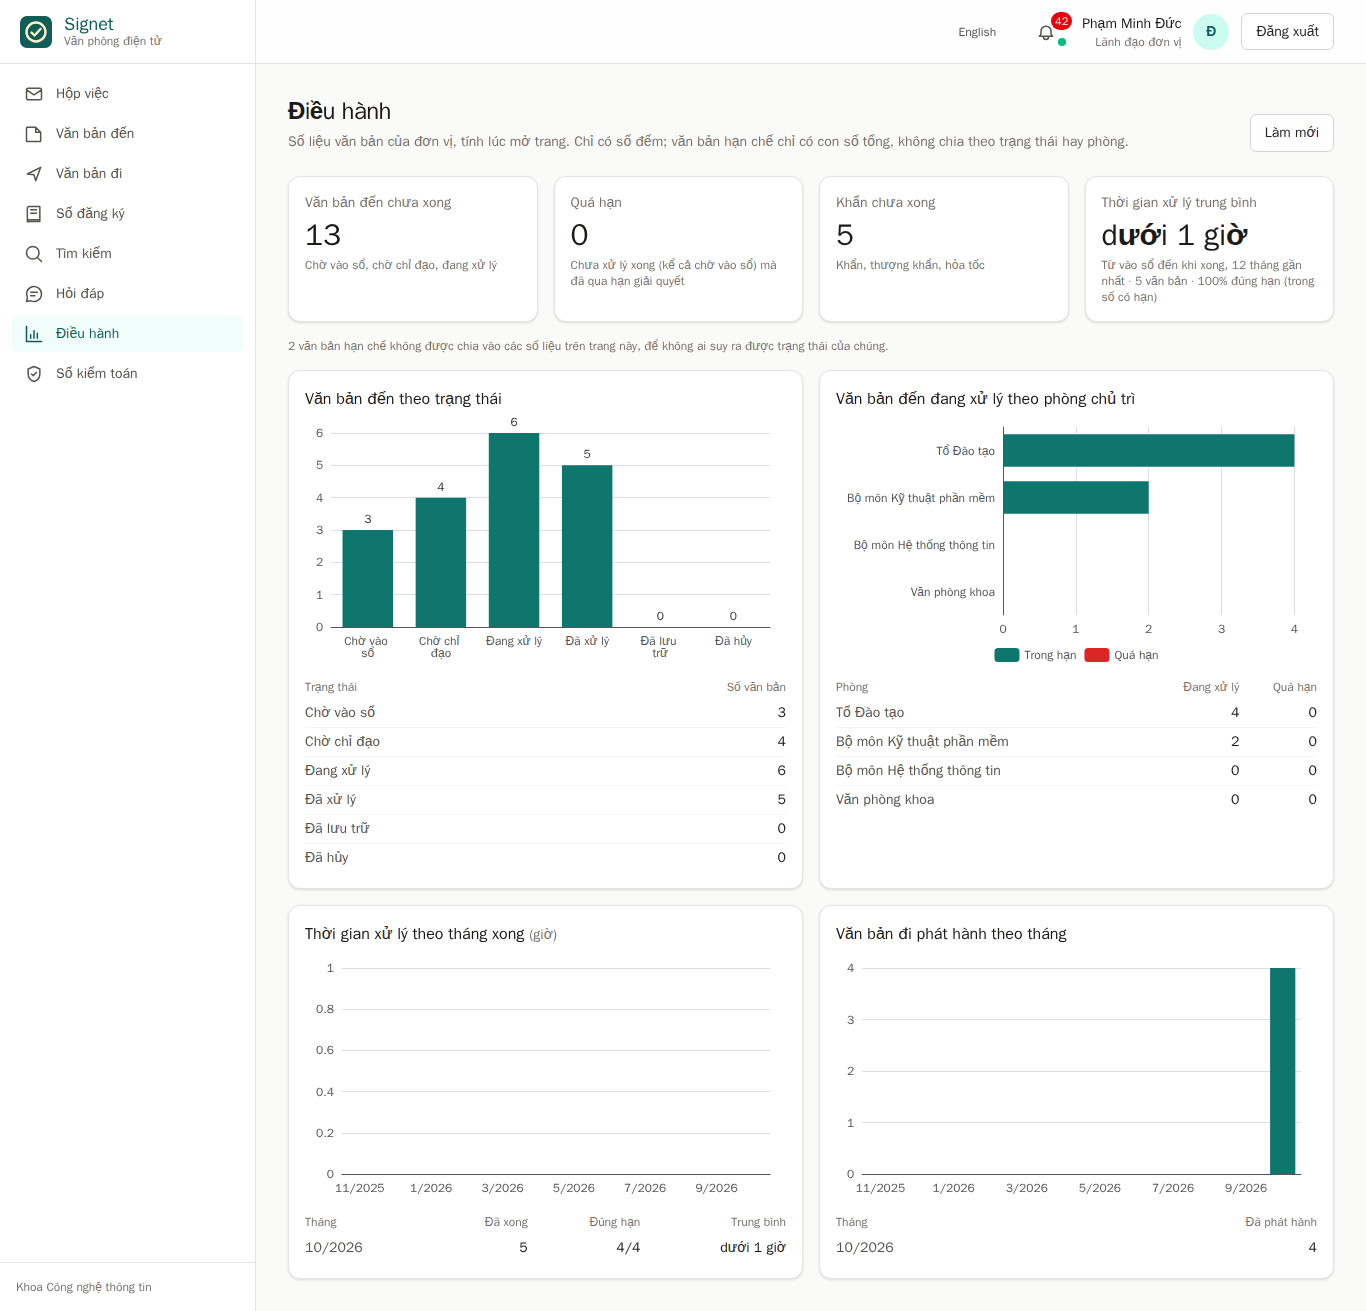
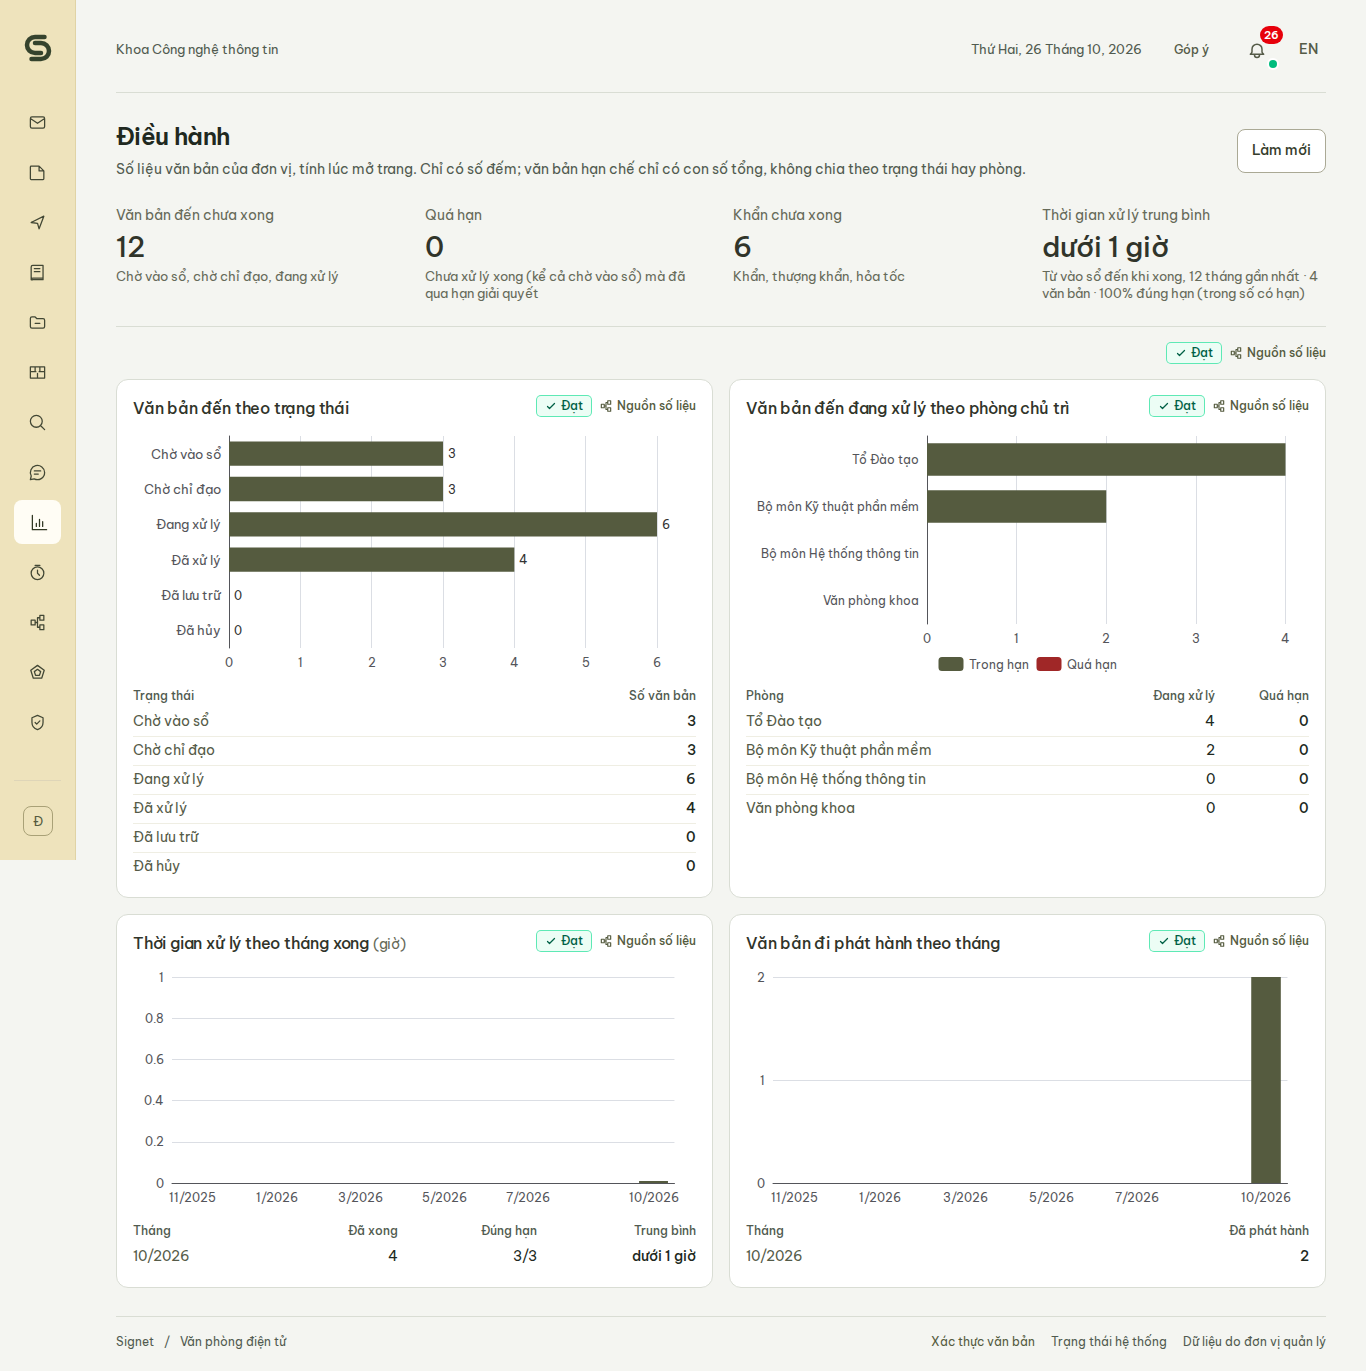
docs: show the Lien mach interface in the README screenshots (#220)
The three interface screenshots in both READMEs showed the old interface. They are replaced with e2e screenshots of
the Liền mạch interface from this PR's CI (artifact e2e-anh-1 of run 40225716743), keeping the file names. The e2e
job now uploads its screenshots as the artifact e2e-anh-<attempt> on every run that is not cancelled, green ones
included. shot() captures with animations and transitions turned off, because a full-page capture briefly flips the
narrow-screen media query and left the sidebar half open. The dashboard test waits for realtime toasts to clear
before its screenshot.

Closes #218

diff --git a/tests/e2e/helpers.ts b/tests/e2e/helpers.ts
@@ -104,6 +104,11 @@ export async function signIn(browser: Browser, username: string, { otp = false }
   return page
 }
 
+// Trong lúc chụp toàn trang, Chrome đổi cỡ khung nhìn tạm thời: media query màn hẹp (max-width: 900px), (hover: none)
+// báo đổi rồi đổi lại, thanh bên nhảy sang độ rộng 256px của ngăn kéo rồi chạy chuyển động thu về 76px, nên ảnh có
+// thanh bên mở dở đè lên nội dung (#218). Chụp với chuyển động tắt
+const STILL = '*, *::before, *::after { transition-duration: 0s !important; transition-delay: 0s !important; }'
+
 export async function shot(page: Page, name: string) {
-  await page.screenshot({ path: `${SHOTS}/${name}.png`, fullPage: true })
+  await page.screenshot({ path: `${SHOTS}/${name}.png`, fullPage: true, animations: 'disabled', style: STILL })
 }

diff --git a/tests/e2e/dieu-hanh.spec.ts b/tests/e2e/dieu-hanh.spec.ts
@@ -39,6 +39,9 @@ test('dashboard điều hành: chỉ lãnh đạo đơn vị xem, số liệu kh
   // mỗi phòng của đơn vị một dòng, kể cả phòng chưa có việc
   await expect(director.getByTestId('board-departments').locator('tbody tr').first()).toBeVisible()
   await expect(director.getByTestId('board-outgoing').locator('svg').first()).toBeVisible()
+  // ảnh này dùng trong README: đợi các thông báo realtime (tự tắt sau 8 giây) tắt hết để không che bảng; chỉ để ảnh
+  // gọn, hết giờ vẫn chụp chứ không làm test đỏ
+  await director.getByTestId('realtime-notice').first().waitFor({ state: 'detached', timeout: 15_000 }).catch(() => {})
   await shot(director, '18-dieu-hanh')
 
   const clerk = await signIn(browser, 'vanthu', { otp: true })

diff --git a/CHANGELOG.md b/CHANGELOG.md
@@ -154,6 +154,12 @@ Mọi thay đổi đáng chú ý của Signet (trước 23/10/2026 tên là Mộ
   thì kiểm lại sau lần nâng cấp này (`docker compose down` tạo lại mạng, có thể đổi dải — `docs/trien-khai.md` mục
   8). `make demo-cai-ung-dung` kiểm từ trong container `app-bang-tin` chỉ tới được APISIX, route hook không có ở cổng
   công khai. Test scripts +9.
+- Ảnh giao diện trong README chụp lại theo giao diện Liền mạch (#218): `docs/anh/doc-van-ban-goi-y.png`,
+  `dieu-hanh.png`, `xac-thuc.png` lấy từ ảnh e2e `29-doc-van-ban-goi-y`, `18-dieu-hanh`, `10-xac-thuc-khop` của CI.
+  Job "Chạy thử: e2e" nay tải ảnh màn hình lên artifact `e2e-anh-<lần chạy>` ở mọi lần chạy, cả khi xanh, để lần
+  sau thay ảnh không phải dựng cả hệ thống ở máy. `shot()` của e2e nay chụp với chuyển động tắt: lúc chụp toàn trang
+  media query màn hẹp đổi rồi đổi lại, thanh bên từng ra mở dở đè lên nội dung. Ảnh dashboard đợi thông báo nổi tắt
+  hết rồi mới chụp.
 
 ### Đã sửa lỗi
 - Log tập trung không còn mất dòng đầu tiên của dịch vụ im lâu khi kết nối tới Vector đã chết (#226). Driver
